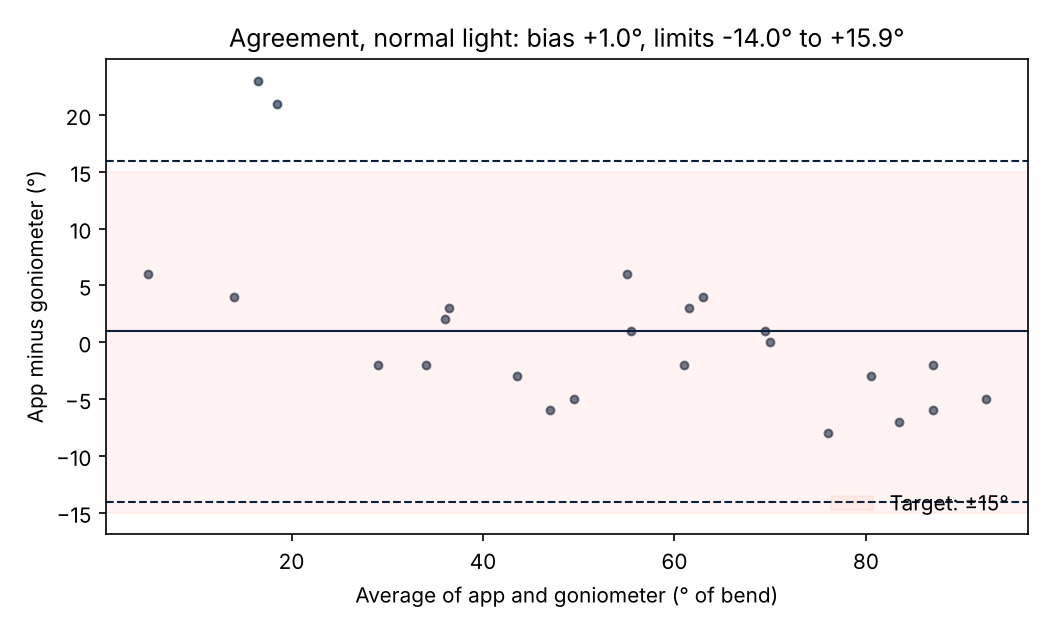
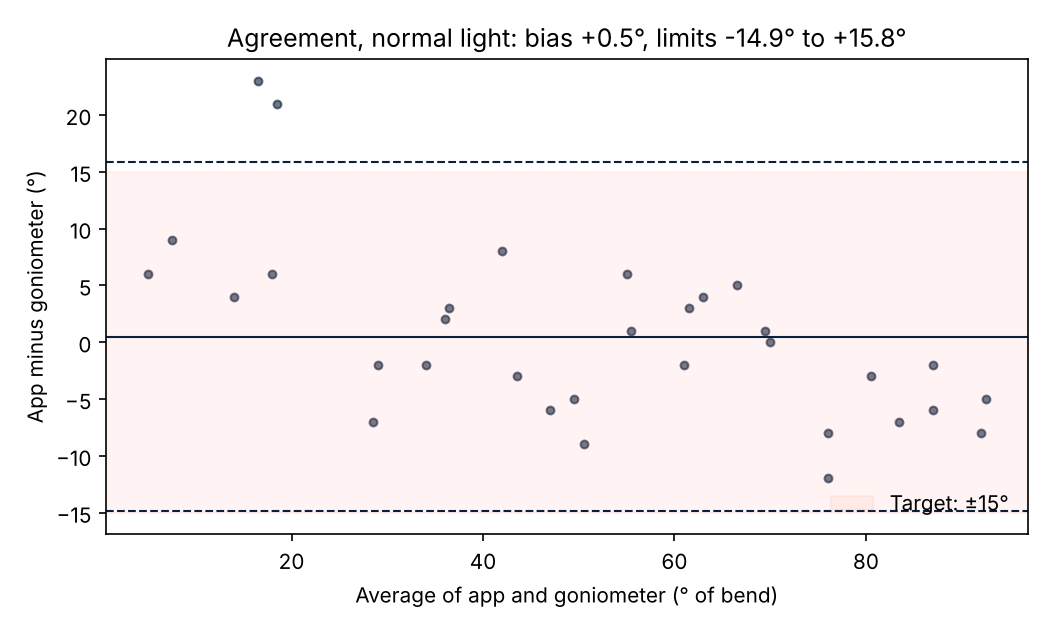
Report 02: add P03's still-angle pairs
- 8 pairs for P03; all 32 pairs: -14.9 to +15.8 deg (AC-2 fails by under 1 deg)
- straight finger too bent in every hand (P01 21-23, P02 6, P03 9 deg)

diff --git a/docs/validation/report-02-pilot/trigger-finger.md b/docs/validation/report-02-pilot/trigger-finger.md
@@ -17,7 +17,7 @@ How this file works: the tables and figures between the `auto` markers are rebui
 | --- | --- |
 | People | 3 (P01, P02, P03) |
 | Person-sessions | 5 |
-| Still-angle pairs | 24 (middle finger; 2 people) |
+| Still-angle pairs | 32 (middle finger; 3 people) |
 | Runs | 10 (8 scored) |
 | App builds | c74e3a4, c9727ef, d75db24, not-recorded, caff658 |
 | Updated | 20 Nov 2026 |
@@ -32,7 +32,7 @@ Whether the finger-color trigger finger test measures how far the middle finger 
 - **Reference:** a 180°-type goniometer on the back of the finger over the middle joint. It reads 180° when the finger is straight, so the bend is 180° minus the reading.
 - **Bend in the app:** 180° minus the app's angle, the same way.
 - **Who read what:** the author read the app and the goniometer for every pair. Volunteers held the positions.
-- **What each person has done (20 Nov):** P01 did all parts, with two sheets of still angles. P02 did one smooth-fist run, one catch run and one sheet of 8 still-angle pairs. P03 did one smooth-fist run and one catch run on build caff658, with raw files and summary files (20 Nov); no still angles yet.
+- **What each person has done (20 Nov):** P01 did all parts, with two sheets of still angles. P02 did one smooth-fist run, one catch run and one sheet of 8 still-angle pairs. P03 did one smooth-fist run and one catch run on build caff658, with raw files and summary files, and one sheet of 8 still-angle pairs (20 Nov).
 
 ## 3. Results
 
@@ -41,8 +41,8 @@ Whether the finger-color trigger finger test measures how far the middle finger 
 <!-- auto:checks -->
 | ID | Rule | Result | Pass |
 | --- | --- | --- | --- |
-| AC-1 | Bias within ±5° | Bias +1.0° | PASS |
-| AC-2 | Both 95% limits within ±15° | -14.0° to +15.9° | FAIL |
+| AC-1 | Bias within ±5° | Bias +0.5° | PASS |
+| AC-2 | Both 95% limits within ±15° | -14.9° to +15.8° | FAIL |
 | AC-3 | ICC 0.75 or higher | Not assessed: needs 2+ sessions and 2+ people | NOT ASSESSED |
 | AC-4 | 80% or more of deliberate catches found | 9 of 12 (75%) | FAIL |
 | AC-5 | 10% or fewer smooth fists flagged | 0 of 68 (0%) | PASS |
@@ -79,10 +79,10 @@ AC-3 (repeatability) needs the same people on at least two days. The pilot has o
 <!-- auto:agreement -->
 | Set | Pairs | Bias | 95% limits |
 | --- | --- | --- | --- |
-| All positions | 24 | +1.0° | -14.0° to +15.9° |
-| Bent positions only (not fully straight) | 21 | -1.3° | -9.2° to +6.6° |
+| All positions | 32 | +0.5° | -14.9° to +15.8° |
+| Bent positions only (not fully straight) | 28 | -1.6° | -11.9° to +8.8° |
 
-Fully straight finger (3 pairs): the app read +16.7° more bend than the goniometer on average (range +6° to +23°). Bend = 180° minus the app angle.
+Fully straight finger (4 pairs): the app read +14.8° more bend than the goniometer on average (range +6° to +23°). Bend = 180° minus the app angle.
 <!-- /auto:agreement -->
 
 ![App bend against goniometer bend](figures/trigger-app-vs-goniometer.png)
@@ -98,7 +98,7 @@ The first figure shows each pair against the line of perfect agreement. The seco
 | --- | --- | --- | --- | --- | --- | --- |
 | P01 | 16 | +1.7° | -1.2° | 4 of 6 | 0 of 34 | 6 of 6 |
 | P02 | 8 | -0.5° | -1.4° | 2 of 2 | 0 of 17 | 3 of 3 |
-| P03 | 0 | none yet | none yet | 2 of 2 | 0 of 17 | 0 of 3 |
+| P03 | 8 | -1.0° | -2.4° | 2 of 2 | 0 of 17 | 0 of 3 |
 <!-- /auto:people -->
 
 ### 3.5 Catches by finger
@@ -228,6 +228,7 @@ Each item says what happened, why, and what was done. Nothing was removed from t
 | 20 Nov | New data: P02's sheet of 8 still-angle pairs (the sheet is labelled P02). | The author typed the sheet into the chat; app value = middle of three readings. | Added as P02, session 2 (a different day from P02's runs). The build was not written down. P02's straight finger read 172° (8° of bend) against 2° on the goniometer, far closer than P01's two straight readings (151° and 152°). P02's pairs alone are within −10.6° to +9.6°. |
 | 20 Nov | P03, catch run: the app found **0 of 3** deliberate middle-finger catches. | Replayed the raw file through the detector (same 0 as the screen) and looked at each pause. P03 made each catch from an **open** hand: close halfway, pause, snap open. The protocol says from a **full fist**. Fist 6 and fist 9: no fist in the 1.5 s before the pause, so the rule added on 12 Nov (a pause must sit 15° above the fist) rejected them. Fist 3: there was a fist before it, but P03's middle finger opens only to about 142°, so a pause at 115° left 27° of room; after smoothing the snap reached 24°, just under the 25° needed. | Counted as missed (AC-4 is now 9 of 12, 75%, FAIL). Not removed: whether the volunteer was shown the full-fist step is not recorded. The app was not changed: tuning the rule on these three pauses would be fitting it to the data. Two questions for Report 03: should a catch from an open hand count, and should the 25° snap scale with how far the person's finger opens? |
 | 20 Nov | P03's open middle finger read 141° to 142°. | Same as P02. | The old fixed lines (150°/120°) would have counted **0 of 10** fists in both P03 runs; the own-open-hand lines count 10 of 10. |
+| 20 Nov | New data: P03's sheet of 8 still-angle pairs. | Typed into the chat by the author. | Added as P03, session 1. P03's straight finger read 9° more bend than the goniometer. P03's pairs alone are within −18.2° to +16.2°; the widest single pair was 12° (app 110°, goniometer 98°). With 32 pairs from three people the limits are −14.9° to +15.8°: AC-2 still fails by under 1°. |
 | 12 Nov | Request to change the pass rules so AC-2 and AC-6 show a check. | AC-2 fails because of the two straight-finger pairs; AC-6 fails because of the first-build runs. | **Not done.** The rules were fixed before any data was taken, and removing the two unscored runs or the two straight pairs would hide what happened. AC-6 can pass by itself with more scored runs (3 more, with no new failures, give 2 of 11 = 18%). AC-2 needs a real change in the app, not a change in the rule (section 6). |
 | 15 Nov | Two runs had no build recorded, and per-finger counts were typed from the screen. | The build had to be looked up on GitHub and the counts copied by hand. | The app now shows its build at the bottom of the page and offers "Download run summary (CSV)" after every run, scored or not (protocol v1.3). A camera setup list under the video (hand found, whole hand in the picture, camera fast enough) was added to cut down unscored runs; it gives tips only and does not change scoring. Neither has been used in a session yet. |
 | 12 Nov | Per-finger counts were not in the protocol's CSV files. | Protocol v1.1 only recorded the middle finger. | Protocol v1.2 adds `finger_catches.csv` and a `build` column in `runs.csv`. Counts are typed from the app's result screen. |
@@ -248,7 +249,7 @@ Each item says what happened, why, and what was done. Nothing was removed from t
 - [x] P01: repeat the deliberate-catch run on the current build with its raw CSV (run 6, 12 Nov): 3 of 3 found.
 - [ ] AC-6: now 2 of 10 (20%), which is not "fewer than 1 in 5". One more scored run makes 2 of 11 (18%).
 - [ ] Volunteer guide: show the full-fist catch step (fist, open halfway, pause, snap) before Part 3, and write down that it was shown.
-- [ ] P03: goniometer pairs (8 positions).
+- [x] P03: goniometer pairs (8 positions), 20 Nov.
 - [ ] Decide, before more data, whether a catch made from an open hand counts, and whether the snap size should depend on how far the person's finger opens. Test any change on people who were not used to design it.
 - [ ] AC-2: decide on a way to read a straight finger better (a side view, or the person's own straight hand as zero). Any fix is designed on some people and tested on others; one person's two straight readings are not enough to build it.
 - [x] P02: goniometer pairs (8 positions), 20 Nov.
@@ -267,8 +268,8 @@ These are provisional: two people, one of them the author. Numbers are in the ta
 1. **The fist test now finishes.** On the first build, 2 of 2 runs were not scored. Since then, 8 of 8 were scored (two of them with unrecorded build). Two of three hands read their open middle finger at 141° to 142°. With the old fixed lines P03's runs would have counted 0 of 10 fists; the own-open-hand lines count 10 of 10 in every replayed run. Neither P02's nor P03's hand was used to design the change.
 2. **The middle finger, which the protocol scores, gave no false catches** in 68 unscripted fists (AC-5 passes). **Deliberate catches were found 9 of 12 (AC-4 fails):** 3 of 3 for P01 (twice) and P02, 0 of 3 for P03. P03 made the catches from an open hand instead of a full fist, and P03's finger opens only to about 142°, which leaves little room for a 25° snap (section 4). The detector finds catches that come out of a fist; it can miss catches in hands that do not open far.
 3. **The thumb gives false catches in all three hands** (2 for P01, 3 for P02 and 3 for P03 in one smooth run each). The simple rule I tried, ignoring a pause while 2 or more other fingers are closed, would have dropped 2 of 6 real catches, so it is not used. The thumb is shown in the results and the PDF, so a healthy hand could be told "catching present". This is the main thing to fix before Report 03.
-4. **Bent positions agree with the goniometer in both hands; P01's straight finger does not.** Across 21 bent pairs from two people the bias is −1.3° and the 95% limits are −9.2° to +6.6°, inside ±15°. P02's 8 pairs on their own, straight one included, are within −10.6° to +9.6°, which would pass AC-2. P01's two straight pairs read 23° and 21° more bend than the goniometer, while P02's read 6°. With all 24 pairs the limits are −14.0° to +15.9°, so AC-2 fails by about 1°. The likely cause is the camera reading depth poorly for a straight finger with the palm toward it; P02's result suggests it depends on the hand or how it is held, which is not yet known.
-5. **Not yet known:** repeatability (AC-3), still-angle accuracy beyond two hands, light and skin-tone effects, and whether the app detects trigger finger in people who have it.
+4. **Still angles: close on average, but the spread is just too wide.** 32 pairs from three people: average difference +0.5° (AC-1 passes), 95% limits −14.9° to +15.8° (AC-2 fails by under 1°). Bent positions alone (28 pairs): −11.9° to +8.8°. The straight finger read too bent in every hand, by 23° and 21° (P01), 6° (P02) and 9° (P03). P01's two straight pairs are the largest single cause: without them the limits are −12.0° to +10.0°. They are kept, because nothing about how they were taken was different. P03's own pairs spread more than P02's, so the spread is not only a straight-finger problem.
+5. **Not yet known:** repeatability (AC-3), still-angle accuracy beyond three hands, light and skin-tone effects, and whether the app detects trigger finger in people who have it.
 
 What changes before Report 03: a thumb rule that is tested on new recordings, a decision on how to read a straight finger, a decision on catches from an open hand and on hands that do not open far, a clearer catch step in the volunteer guide, and one more scored run.
 
@@ -301,6 +302,14 @@ What changes before Report 03: a thumb rule that is tested on new recordings, a 
 | P02 | 2 | bent | 117° | 63° | 60° | +3° |
 | P02 | 2 | bent | 108° | 72° | 80° | -8° |
 | P02 | 2 | bent | 90° | 90° | 95° | -5° |
+| P03 | 1 | straight | 168° | 12° | 3° | +9° |
+| P03 | 1 | bent | 159° | 21° | 15° | +6° |
+| P03 | 1 | bent | 155° | 25° | 32° | -7° |
+| P03 | 1 | bent | 134° | 46° | 38° | +8° |
+| P03 | 1 | bent | 134° | 46° | 55° | -9° |
+| P03 | 1 | bent | 111° | 69° | 64° | +5° |
+| P03 | 1 | bent | 110° | 70° | 82° | -12° |
+| P03 | 1 | bent | 92° | 88° | 96° | -8° |
 <!-- /auto:pairs -->
 
 ## Appendix B: repeat it

diff --git a/docs/validation/report-02-pilot/README.md b/docs/validation/report-02-pilot/README.md
@@ -15,6 +15,7 @@ Protocol: [VP-TF-001](../protocol-trigger-finger.md) v1.2. Raynaud's part not st
 | 12 Nov 2026 | P01, P02 | P01 run 6 and P02 run 2: deliberate catches on fists 3, 6, 9 (raw CSVs); a second sheet of 8 still-angle pairs (entered as P01 session 2) | not recorded | Replay finds 3 of 3 middle-finger catches in each run. Bent pairs within 5° of the goniometer; straight pair 21° short. The thumb rule tested on these runs failed, so it was not added. |
 | 20 Nov 2026 | P02 | 8 still-angle pairs (middle finger) | not recorded | Within −10.6° to +9.6° of the goniometer; the straight finger read 8° of bend against 2°. |
 | 20 Nov 2026 | P03 | Run 1 smooth fists, run 2 deliberate catches (raw and summary CSVs) | caff658 | Both scored, 60 and 59 fps, open middle finger 141° and 142°. Middle: 0 false catches, but 0 of 3 deliberate catches found (made from an open hand; see the report). Thumb: 3 false catches in the smooth run. |
+| 20 Nov 2026 | P03 | 8 still-angle pairs (middle finger) | not recorded | Within −18.2° to +16.2° of the goniometer; straight finger read 9° of bend more. All 32 pairs: −14.9° to +15.8°. |
 | 12 Nov 2026 | P01 | Run 3 smooth fists, run 4 catches on fists 3, 6 and 9 | c9727ef | Both scored, 60 fps. Open hand read 146° and 151°. Middle finger: 0 false catches, 3 of 3 deliberate catches found. Thumb and little finger flagged held fists as catches; fixed below. |
 
 ## What the first session found

diff --git a/docs/validation/README.md b/docs/validation/README.md
@@ -5,7 +5,7 @@ Does the camera measure what it claims? Each test has one fixed protocol and thr
 | Report | What it is | Trigger finger | Raynaud's |
 | --- | --- | --- | --- |
 | 01 Dry run | Simulated data with known answers, to check the analysis code | [Done](report-01-dry-run/trigger-finger.md): all answers recovered | [Done](report-01-dry-run/raynaud.md): all answers recovered |
-| 02 Pilot | 3 people, 1 session: test the steps, first real numbers | [In progress](report-02-pilot/trigger-finger.md): 3 people so far (two with still angles); AC-1 and AC-5 pass; AC-2 (by about 1°), AC-4 (9 of 12) and AC-6 (2 of 10) fail | Planned |
+| 02 Pilot | 3 people, 1 session: test the steps, first real numbers | [In progress](report-02-pilot/trigger-finger.md): 3 people so far, all with still angles; AC-1 and AC-5 pass; AC-2 (by under 1°), AC-4 (9 of 12) and AC-6 (2 of 10) fail | Planned |
 | 03 Full study | 10 people, 3 sessions, two light conditions | Planned | Planned |
 
 Protocols: [trigger finger (VP-TF-001)](protocol-trigger-finger.md), [Raynaud's (VP-RAY-001)](protocol-raynaud.md).
